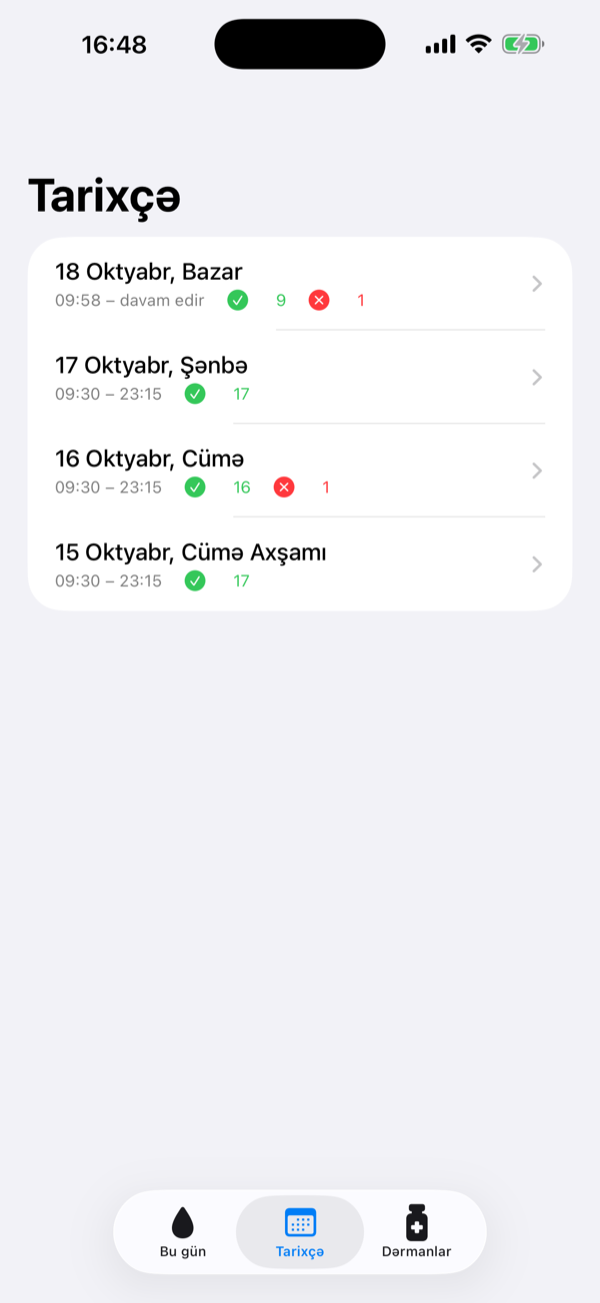
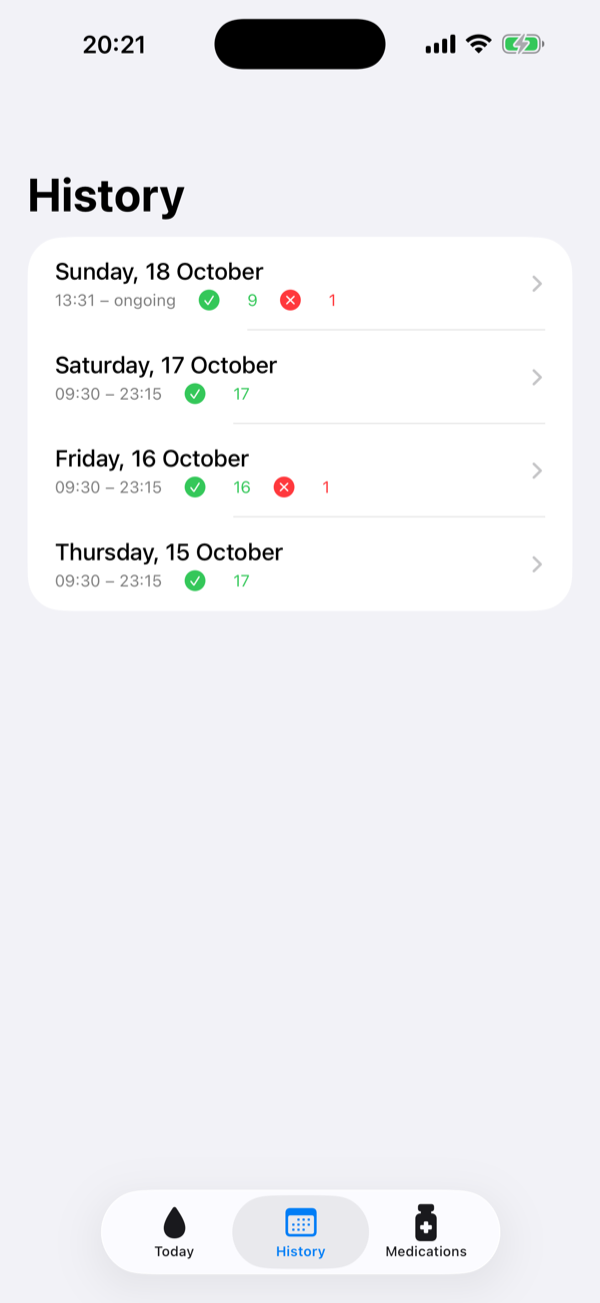
docs: document languages, Settings and the Live Activity switch
- README: Settings and languages section, the Live Activity switch,
  English button names with one note on the Azerbaijani ones, updated
  tech stack, structure and roadmap.
- docs/LOCALIZATION.md: how the language is chosen, how to write strings,
  how to add a language, and what each test guards.
- Screenshots regenerated in English, plus Settings, Azerbaijani and
  overdue captures; the Live Activity images use the final layout.

diff --git a/README.md b/README.md
@@ -15,7 +15,7 @@ Tap once when you take your first drop. Dərmanchı builds the rest of the day f
 ![WidgetKit](https://img.shields.io/badge/Widgets-WidgetKit-3BA8F5?style=flat-square)
 ![No backend](https://img.shields.io/badge/backend-none-22C55E?style=flat-square)
 
-[Features](#-features) · [Widgets](#-widgets) · [Live Activity](#-live-activity) · [How it works](#-how-the-schedule-works) · [Getting started](#-getting-started) · [Roadmap](#-roadmap)
+[Features](#-features) · [Widgets](#-widgets) · [Live Activity](#-live-activity) · [Settings and languages](#%EF%B8%8F-settings-and-languages) · [How it works](#-how-the-schedule-works) · [Getting started](#-getting-started) · [Roadmap](#-roadmap)
 
 </div>
 
@@ -30,7 +30,10 @@ Tap once when you take your first drop. Dərmanchı builds the rest of the day f
 </div>
 
 > [!NOTE]
-> Dərmanchı is a personal project I built for my own recovery after eye surgery. It is **not a medical device** and does not give medical advice. Always follow your doctor's instructions. The UI is in Azerbaijani 🇦🇿.
+> Dərmanchı is a personal project I built for my own recovery after eye surgery. It is **not a medical device** and does not give medical advice. Always follow your doctor's instructions. The app is available in English and Azerbaijani 🇦🇿 (Settings → Language); see [docs/LOCALIZATION.md](docs/LOCALIZATION.md) for how to add another language.
+
+> [!TIP]
+> Button names in this README are the English ones. In Azerbaijani they read *Vurdum* (Taken), *Günə başla* (Start the day) and *Yatıram* (Going to sleep).
 
 ## 💡 Why
 
@@ -46,13 +49,14 @@ On top of that, two drops should never go in back-to-back: you wait about **5 mi
 
 ## ✨ Features
 
-- 🌅 **One-tap day start**: take your first drop, tap *Günə başla*, and the whole day's timeline is generated from that moment.
+- 🌅 **One-tap day start**: take your first drop, tap *Start the day*, and the whole day's timeline is generated from that moment.
 - ⏱ **Automatic 5-minute spacing**: when two drops fall at the same time, the second one is pushed back by 5 minutes. If you're late, everything after shifts to keep the gap.
 - 📉 **Tapering built in**: Maxidex drops from 5 to 1 dose a day on its own, and each drug stops on its end date.
-- 🔔 **Local notifications** for every dose, including a "next up" hint ("Sonra: Moxi-R in 5 min").
-- 👆 **Act right from the notification**: long-press, or swipe on the Lock Screen, then tap **Vurdum** to log the drop or **10 dəq sonra xatırlat** to snooze. You never have to open the app. Snoozing shifts the whole cluster of drops due at that time and keeps the 5-minute gaps.
-- 🧩 **Home and Lock Screen widgets** show the next drop with a live countdown and today's progress. The home-screen widgets have a **Vurdum** button that logs the drop without opening the app.
-- ⏳ **Live Activity** in the Dynamic Island and on the Lock Screen: a second-by-second countdown to the next drop with a **Vurdum** button. It turns red when the drop is due.
+- 🔔 **Local notifications** for every dose, including a "next up" hint ("Next: Moxi-R (in 5 min)").
+- 👆 **Act right from the notification**: long-press, or swipe on the Lock Screen, then tap **Taken** to log the drop or **Remind in 10 min** to snooze. You never have to open the app. Snoozing shifts the whole cluster of drops due at that time and keeps the 5-minute gaps.
+- 🧩 **Home and Lock Screen widgets** show the next drop with a live countdown and today's progress. The home-screen widgets have a **Taken** button that logs the drop without opening the app.
+- ⏳ **Live Activity** in the Dynamic Island and on the Lock Screen: a second-by-second countdown to the next drop with a **Taken** button. It turns red when the drop is due, and you can switch it off in Settings.
+- 🌍 **English and Azerbaijani**, switchable in Settings. A settings panel also holds *Edit start time*. Adding another language takes a few minutes.
 - 🚨 **Missed-dose tracking**: anything more than an hour late is flagged in red and stays visible so you can still log it.
 - 🌙 **"Going to sleep" button**: ends the day and silences remaining reminders. Forgot to press it? The next morning closes the previous day for you.
 - 🕙 **Backfill**: started your drops before opening the app? Pick the real start time and past doses are logged at their scheduled times.
@@ -72,18 +76,18 @@ On top of that, two drops should never go in back-to-back: you wait about **5 mi
 ## 🧩 Widgets
 
 <p align="center">
-  <img src="docs/screenshots/widgets.png" width="600" alt="Dərmanchı widgets: small and medium home-screen widgets showing Xiloial at 18:00 with a Vurdum button and per-drug progress, and a Lock Screen widget showing Xiloial at 18:00, 52 minutes left, then Moxi-R at 19:00" />
+  <img src="docs/screenshots/widgets.png" width="600" alt="Dərmanchı widgets: small and medium home-screen widgets showing Xiloial at 18:00 with a Taken button and per-drug progress, and a Lock Screen widget showing Xiloial at 18:00, 52 minutes left, then Moxi-R at 19:00" />
 </p>
 
 | Widget | Size | Shows |
 | --- | --- | --- |
-| **Next drop** | Small | Drug, time, countdown and a **Vurdum** button |
+| **Next drop** | Small | Drug, time, countdown and a **Taken** button |
 | **Day progress** | Medium | Next drop, plus a progress bar for each drug. A red dot marks a missed dose |
 | **Lock Screen** | Rectangular | `💧 Xiloial · 18:00`, the time left, and the drop after it |
 
-- The countdown text ("52 dəq sonra") is pre-computed into minute-by-minute timeline entries, so it stays accurate without waking the app.
-- **Vurdum** runs an App Intent in the app's process. The app re-spaces the next drops, rebuilds notifications, and reloads every widget.
-- Once a drop is due, the widget turns red and shows *İNDİ VUR* ("take it now") along with how late it is.
+- The countdown text ("in 52 min") is pre-computed into minute-by-minute timeline entries, so it stays accurate without waking the app.
+- **Taken** runs an App Intent in the app's process. The app re-spaces the next drops, rebuilds notifications, and reloads every widget.
+- Once a drop is due, the widget turns red and shows *TAKE NOW* ("take it now") along with how late it is.
 - These images are rendered from the real widget views by `WidgetSnapshotTests`. Run them with `TEST_RUNNER_SNAPSHOT_DIR=$PWD/docs/screenshots` to regenerate.
 
 > [!NOTE]
@@ -92,37 +96,60 @@ On top of that, two drops should never go in back-to-back: you wait about **5 mi
 ## ⏳ Live Activity
 
 <p align="center">
-  <img src="docs/screenshots/live-activity.png" width="520" alt="Dərmanchı Live Activity: compact Dynamic Island with Moxi-R and a countdown, the expanded island with a Vurdum button, and the Lock Screen panel with a progress bar" />
+  <img src="docs/screenshots/live-activity.png" width="520" alt="Dərmanchı Live Activity: compact Dynamic Island with Moxi-R and a countdown, the expanded island with a Taken button, and the Lock Screen panel with a progress bar" />
 </p>
 
 <p align="center">
-  <img src="docs/screenshots/live-activity-due.png" width="520" alt="Live Activity once the drop is due: red İNDİ VUR label and a red timer" />
+  <img src="docs/screenshots/live-activity-due.png" width="520" alt="Live Activity once the drop is due: red TAKE NOW label and a red timer" />
   <br />
-  <sub>Once the drop is due: <i>İNDİ VUR</i> in red, and the timer counts up how late it is.</sub>
+  <sub>Once the drop is due: <i>TAKE NOW</i> in red, and the timer counts up how late it is.</sub>
 </p>
 
+- **Switch it off:** *Settings → Live Activity*. Turning it off removes the activity immediately, and turning it on brings it back.
 - **Compact island:** the drug name in its color, plus a live countdown.
-- **Expanded island:** the drug, its time, a large countdown, the drop after it, and **Vurdum**.
-- **Lock Screen:** the countdown, a progress bar filling from the last drop to the next, and **Vurdum**.
-- **Lifecycle:** the activity starts with *Günə başla* and moves to the next drop after every *Vurdum*, whether from the app, a notification, a widget, or the island. It ends with *Yatıram*.
-- When a drop is due, the activity's `staleDate` passes. iOS turns it red with *İNDİ VUR* and the timer starts counting up how late you are. The app doesn't need to run for this.
+- **Expanded island:** the drug, its time, a large countdown, the drop after it, and **Taken**.
+- **Lock Screen:** the countdown, a progress bar filling from the last drop to the next, and **Taken**.
+- **Lifecycle:** the activity starts with *Start the day* and moves to the next drop after every *Taken*, whether from the app, a notification, a widget, or the island. It ends with *Going to sleep*.
+- When a drop is due, the activity's `staleDate` passes. iOS turns it red with *TAKE NOW* and the timer starts counting up how late you are. The app doesn't need to run for this.
 - iOS keeps a Live Activity for about 8 hours. The app replaces it before 7 hours, so a long day keeps its countdown.
 
 These are real simulator screenshots, and the Live Activity was also tested on an iPhone 14 Pro Max. The timers count down live, so the captures were taken a few seconds or minutes apart.
+
+## ⚙ Settings and languages
+
+<p align="center">
+  <img src="docs/screenshots/settings.png" width="300" alt="Settings: language, Live Activity switch, edit start time, version" />
+</p>
+
+The gear in the top-left corner opens **Settings**:
+
+- **Language:** *System default*, *English* or *Azərbaycanca*. *System default* follows the iPhone's language and falls back to **English** when it isn't supported. The change applies at once to the app, notifications, widgets and the Live Activity.
+- **Live Activity:** turn the Dynamic Island and Lock Screen countdown on or off.
+- **Edit start time:** fix the time you took your first drop today. The rest of the day is rebuilt.
+
+<p align="center">
+  <img src="docs/screenshots/today-az.png" width="250" alt="Today screen in Azerbaijani" />
+  &nbsp;&nbsp;
+  <img src="docs/screenshots/today-due.png" width="250" alt="Today screen when the next drop is overdue: red TAKE NOW label and a red late counter" />
+  <br />
+  <sub>The same screen in Azerbaijani, and in English when a drop is overdue.</sub>
+</p>
+
+Every string lives in one String Catalog, and tests fail when a translation is missing, so adding a language is mostly translating one file. See [docs/LOCALIZATION.md](docs/LOCALIZATION.md).
 
 ## 🧠 How the schedule works
 
 ```mermaid
 flowchart LR
-    A["👆 Günə başla<br/>(first drop taken)"] --> B["Plan each drug<br/>from start time"]
+    A["👆 Start the day<br/>(first drop taken)"] --> B["Plan each drug<br/>from start time"]
     B --> C{"Two drops at<br/>the same time?"}
     C -- yes --> D["Shift later one<br/>by +5 min"]
     C -- no --> E["Keep planned time"]
     D --> F["🔔 Schedule local<br/>notifications"]
     E --> F
-    F --> G["✅ Vurdum<br/>(mark taken)"]
+    F --> G["✅ Taken<br/>(mark taken)"]
     G -->|"late? re-space<br/>upcoming doses"| F
-    F --> H["🌙 Yatıram<br/>(end the day)"]
+    F --> H["🌙 Going to sleep<br/>(end the day)"]
 ```
 
 Each dose keeps two timestamps:
@@ -158,8 +185,9 @@ Spacing is always recomputed from `plannedAt`, so a single late drop never makes
 | --- | --- |
 | **UI** | SwiftUI with iOS 26 Liquid Glass tab bar and toolbars |
 | **Persistence** | SwiftData (`DaySession` and `Dose` models) |
-| **Reminders** | `UserNotifications` calendar triggers with *Vurdum* and snooze actions, rebuilt on every change |
+| **Reminders** | `UserNotifications` calendar triggers with *Taken* and snooze actions, rebuilt on every change |
 | **Widgets** | WidgetKit (small, medium, Lock Screen rectangular) with an interactive App Intent button |
+| **Languages** | One String Catalog (`Localizable.xcstrings`), a language setting stored in the App Group, system formatters for dates and durations |
 | **Live Activity** | ActivityKit with the Dynamic Island and Lock Screen. Updates are local, with no push server |
 | **Sharing** | App Group container for the SwiftData store |
 | **Project** | [XcodeGen](https://github.com/yonaskolb/XcodeGen) (`project.yml` is the source of truth) |
@@ -171,7 +199,8 @@ Dermanchi/
 ├── App/            # App entry, tab bar
 ├── Model/          # Medication definitions, SwiftData models
 ├── Logic/          # DoseScheduler, DayActions, notifications, widget state, App Intent
-├── Views/          # Today, Start-day sheet, History, Medications
+├── Views/          # Today, Start-day sheet, History, Medications, Settings
+├── Resources/      # Localizable.xcstrings (English and Azerbaijani)
 └── Widgets/        # Widget views (shared by the extension and snapshot tests)
 DermanchiWidget/    # WidgetKit extension (shares Model/ and Logic/ with the app)
 DermanchiTests/     # Scheduler, day-flow, notification-action, widget-state and snapshot tests
@@ -207,7 +236,7 @@ To install on a connected iPhone from the command line:
 Drugs are defined in [`Dermanchi/Model/Medication.swift`](Dermanchi/Model/Medication.swift). Three rules cover most regimens:
 
 ```swift
-.untilSleep                       // every N hours until you tap "Yatıram"
+.untilSleep                       // every N hours until you tap "Going to sleep"
 .fixed(5)                         // N times a day
 .taper(start: 5, stepDays: 5)     // 5/day, one fewer every 5 days
 ```
@@ -215,9 +244,10 @@ Drugs are defined in [`Dermanchi/Model/Medication.swift`](Dermanchi/Model/Medica
 ## 🗺 Roadmap
 
 - [x] **Phase 1: Core app.** Day start, auto-schedule, 5-minute spacing, tapering, notifications, missed doses, history, backfill.
-- [x] **Phase 2a: Actionable notifications.** *Vurdum* and *Snooze* buttons right on the notification.
-- [x] **Phase 2b: Widgets.** Small and medium home-screen widgets with a *Vurdum* button, plus a Lock Screen widget.
+- [x] **Phase 2a: Actionable notifications.** *Taken* and *Snooze* buttons right on the notification.
+- [x] **Phase 2b: Widgets.** Small and medium home-screen widgets with a *Taken* button, plus a Lock Screen widget.
 - [x] **Phase 2c: Live Activity.** Countdown to the next drop in the Dynamic Island and on the Lock Screen.
+- [x] **English and Azerbaijani** with a settings panel and a Live Activity switch.
 - [ ] **Phase 3: Insights.** Adherence stats, per-drug countdown, PDF report to share with the doctor.
 
 ## 🔒 Privacy

diff --git a/docs/LOCALIZATION.md b/docs/LOCALIZATION.md
@@ -1,0 +1,85 @@
+# Localization
+
+Dərmanchı ships in **English** (source and fallback language) and **Azerbaijani**. Every user-facing string lives in one place:
+
+```
+Dermanchi/Resources/Localizable.xcstrings     ← the String Catalog, shared by the app and the widget extension
+Dermanchi/Logic/Localization.swift            ← AppLanguage.supported, the language setting, tr(...)
+```
+
+## How the language is chosen
+
+1. **Settings → Language** has three choices: *System default*, *English* and *Azərbaycanca*. The choice is stored in the App Group (`group.com.raullte.dermanchi`), so the widgets, the Live Activity and the notifications read the same value.
+2. *System default* picks the first language in the iPhone's preferred-language list that the app supports. If none matches, it falls back to **English**.
+3. Dates, times and durations come from Foundation's own formatters, using the chosen language together with the iPhone's region. That is why the 12/24-hour clock follows the region and no per-language date formats are written by hand.
+
+Switching the language rebuilds notifications, reloads the widgets and updates the Live Activity right away. No restart is needed.
+
+## Writing strings in code
+
+| Where | Write | Notes |
+| --- | --- | --- |
+| SwiftUI views | `Text("Start the day")` | Literals are looked up in the catalog using the language set on the root view. |
+| Anything that needs a `String` (notifications, widgets, helpers, ternaries) | `tr("Start the day")` | `Text(cond ? "a" : "b")` is **not** localized: two literals become a plain `String`. Use `tr(...)`. |
+| Verbatim text (names, numbers, dates) | `Text(verbatim: "\(a) – \(b)")` | Keeps it out of the catalog. |
+
+Rules of thumb:
+
+- **The key is the English text**, for example `"Next: \(name) (in \(minutes) min)."` becomes the key `Next: %@ (in %lld min).`
+- **Write whole sentences.** Do not glue fragments together: word order and suffixes differ between languages. Put the values inside the sentence as arguments.
+- **Plurals** use the catalog's *Vary by Plural* (see `Every %lld hours` or the `From %@ until now, %lld drops…` substitution).
+- Drug names (Xiloial, Moxi-R, Maxidex) and the app name are brand names. They are not translated.
+
+## Adding a language
+
+Say you want to add Russian (`ru`).
+
+1. **Register it** in `AppLanguage.supported` (`Dermanchi/Logic/Localization.swift`):
+
+   ```swift
+   AppLanguage(code: "ru", nativeName: "Русский"),
+   ```
+
+   The Settings list picks it up on its own.
+
+2. **Translate it.** Open `Localizable.xcstrings` in Xcode, add *Russian* with the **+** button under the language list, and fill in every row. Plural rows need one entry per plural category of the language (Russian has `one`, `few`, `many`, `other`).
+
+3. **Run the tests.** The suite fails until the work is complete:
+
+   ```bash
+   xcodebuild test -project Dermanchi.xcodeproj -scheme Dermanchi \
+     -destination 'platform=iOS Simulator,name=iPhone 17 Pro Max'
+   ```
+
+   | Test | What it catches |
+   | --- | --- |
+   | `testEveryKeyIsTranslatedIntoEverySupportedLanguage` | a missing or empty translation |
+   | `testCatalogHasNoLanguageThatIsNotRegistered` | a language in the catalog that is missing from `AppLanguage.supported` |
+   | `testPlaceholdersMatchAcrossLanguages` | `%@` / `%lld` that differ between translations |
+   | `testBuiltBundleContainsEverySupportedLanguage` | a language that did not make it into the app bundle |
+   | `testEveryLiteralKeyInSourcesExistsInCatalog` | a string used in code but missing from the catalog |
+   | `testEveryCatalogKeyIsUsedInSources` | a catalog row nobody uses any more |
+   | `testNoAzerbaijaniTextIsHardcodedInSources` | text that slipped into code instead of the catalog |
+   | `testNoRawHumanTextInTernaryBranches` | `Text(cond ? "a" : "b")` that would never be translated |
+
+4. **Look at it.** Run the app, pick the language in Settings, and check the Today screen, the widgets and the Live Activity. Long translations are the usual surprise on the Lock Screen widget.
+
+To change the *fallback* language, change `AppLanguage.fallback` and the catalog's `sourceLanguage` together. A test checks that they agree.
+
+## Regenerating the README images
+
+Widget images are rendered from the real views:
+
+```bash
+TEST_RUNNER_SNAPSHOT_DIR=$PWD/docs/screenshots TEST_RUNNER_SNAPSHOT_LANG=en \
+  xcodebuild test -project Dermanchi.xcodeproj -scheme Dermanchi \
+  -destination 'platform=iOS Simulator,name=iPhone 17 Pro Max' \
+  -only-testing:DermanchiTests/WidgetSnapshotTests
+```
+
+For app screens, launch a debug build in the simulator with demo data in the language you want:
+
+```bash
+xcrun simctl launch booted com.raullte.dermanchi -demo -demo-lang az
+xcrun simctl launch booted com.raullte.dermanchi -demo -demo-lang en -demo-due   # next drop is overdue
+```
